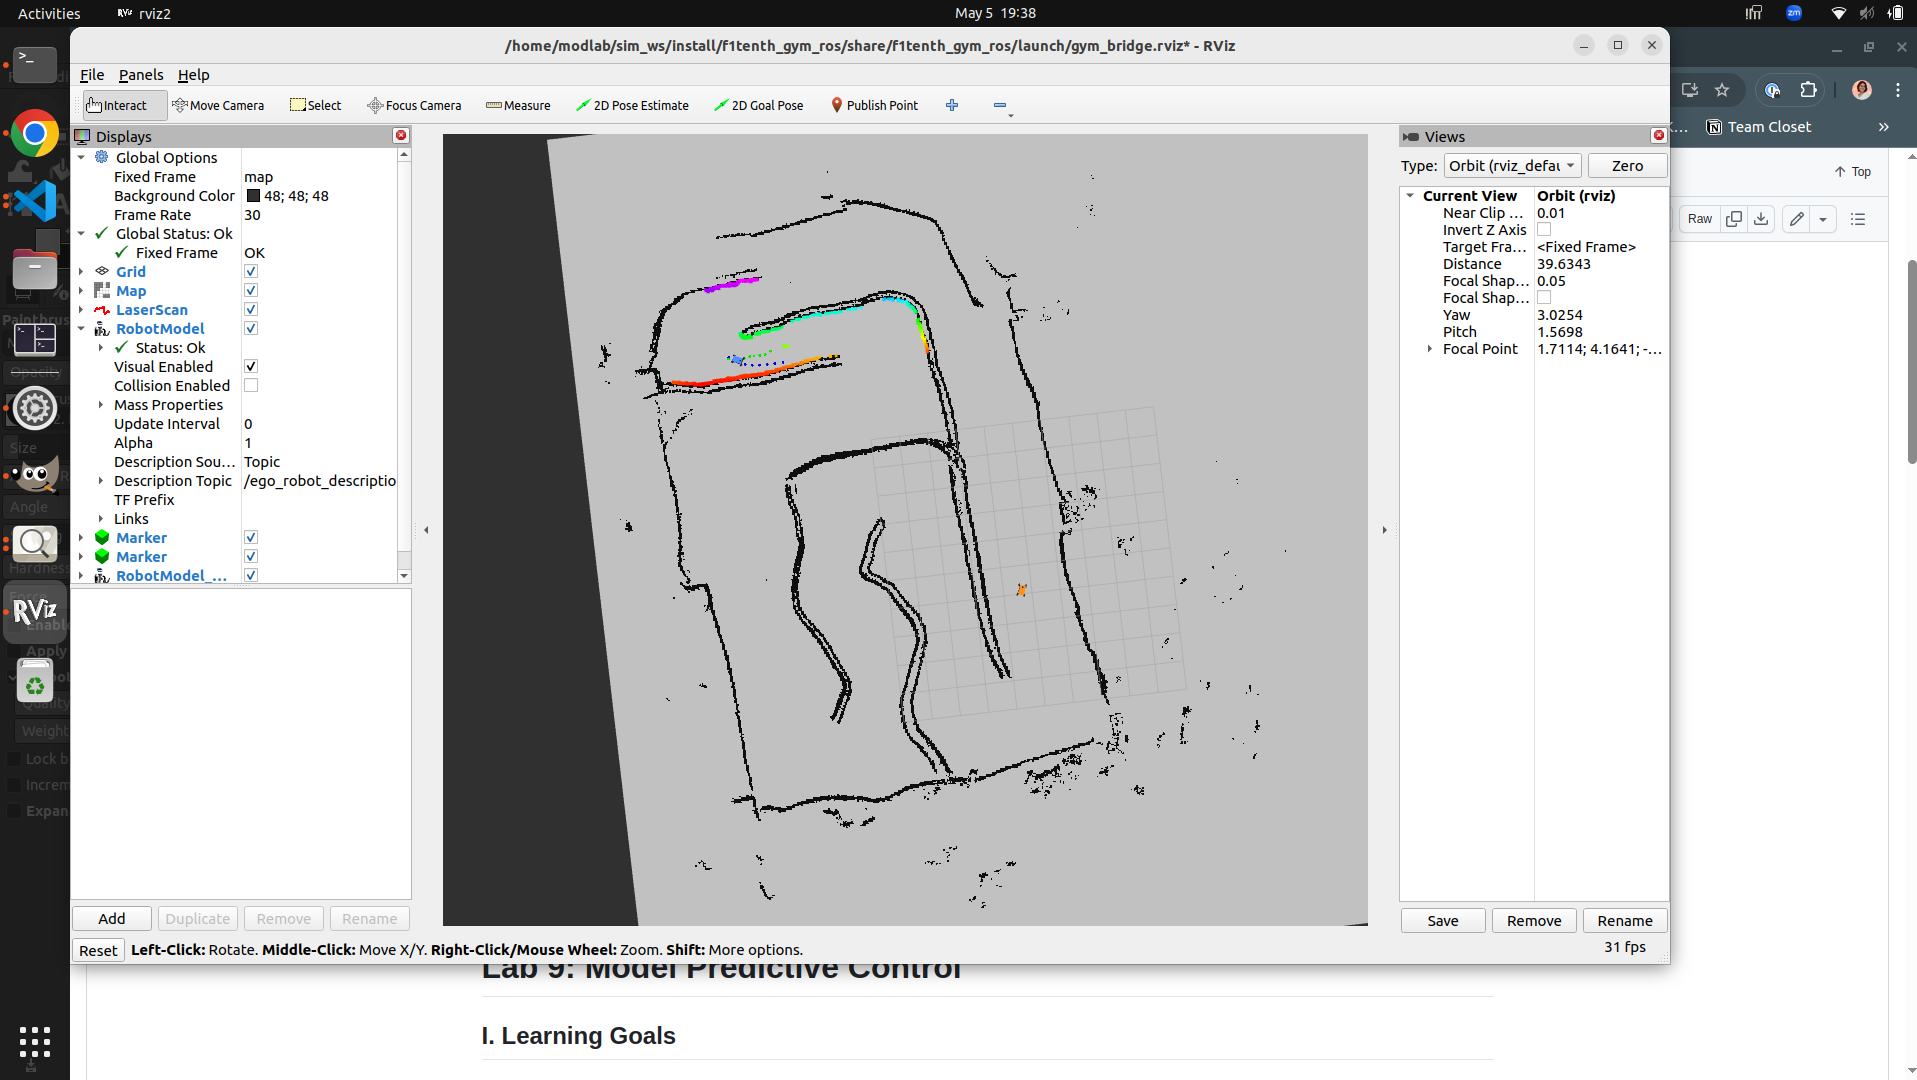
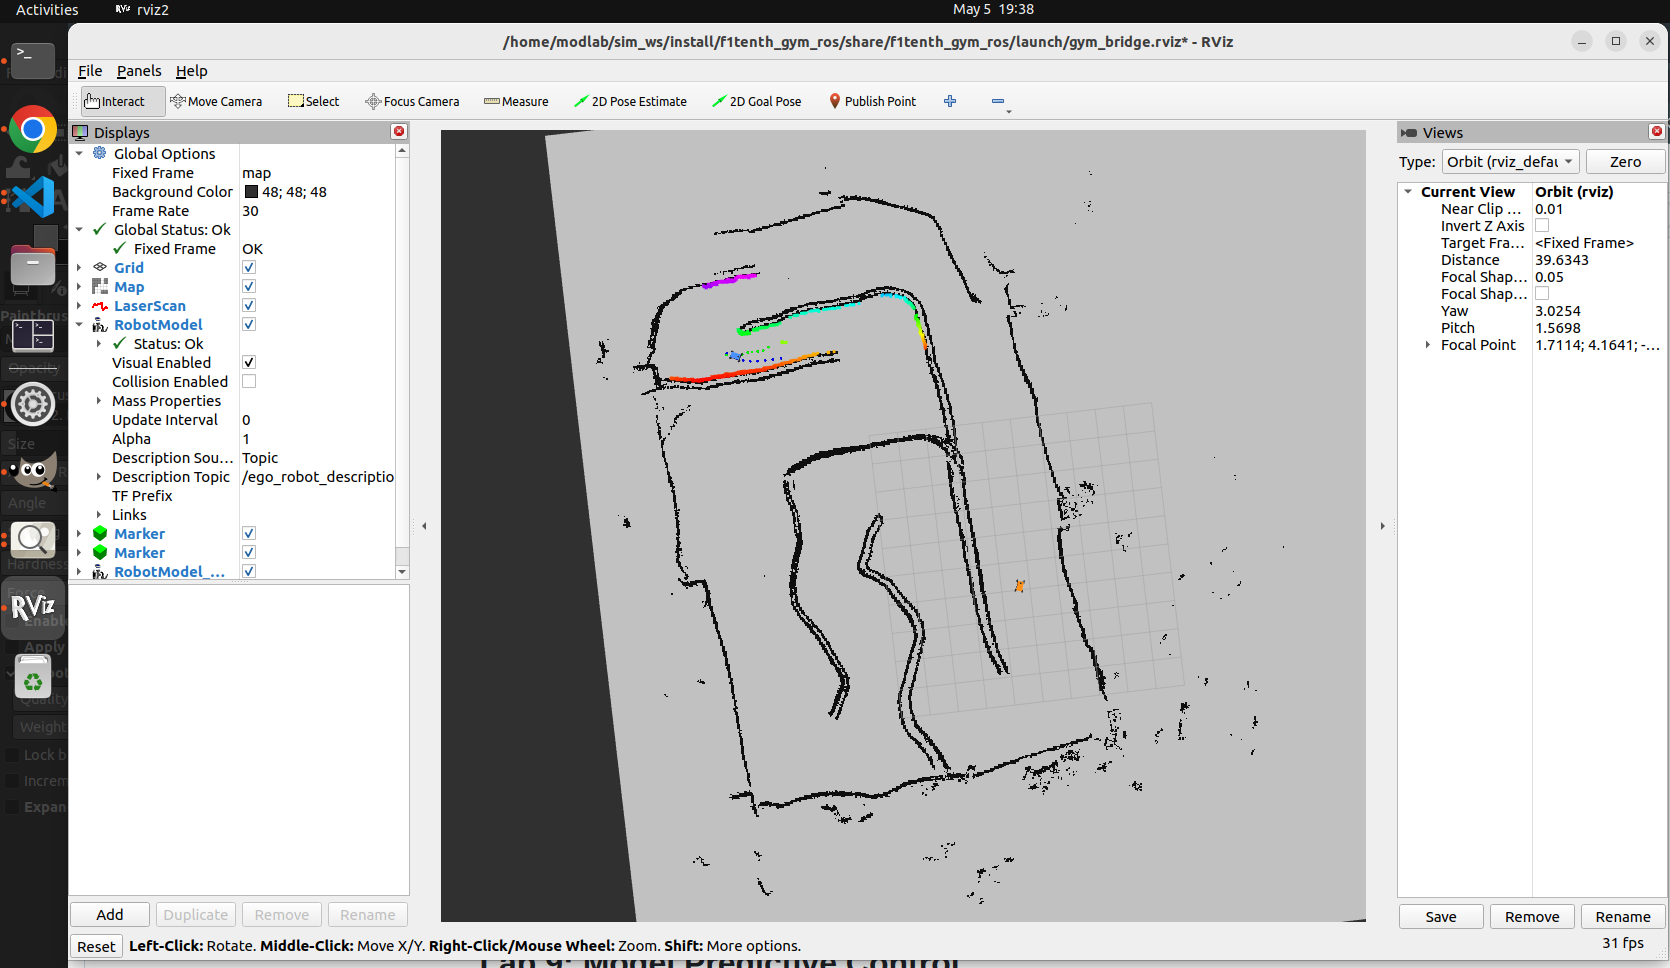
Updates post ICRA and sprucing.

diff --git a/index.html b/index.html
@@ -60,7 +60,7 @@
 									</header>
 									<p>  I’m a roboticist passionate about building systems that move and think in the real world. 
 										My focus is on mechanical design and autonomous system integration, especially for field robotics in space and other challenging environments. 
-										I earned my BSE in Mechanical Engineering with a Minor in Computer Science from the University of Michigan, and I’m currently completing my MSE in Robotics at the University of Pennsylvania (graduating May 2025). 
+										I earned my MSE in Robotics at the University of Pennsylvania (May 2025), and my BSE in Mechanical Engineering with a Minor in Computer Science from the University of Michigan (April 2023).
 										Outside the lab, I’m a dancer, artist, and violinist—I believe creative expression strengthens my engineering work.
 
 									</p>
@@ -76,15 +76,15 @@
 									<!-- <p> </p> -->
 									<div class="features">
 										<article>
-											<a class="image"> <img src="images/f1tenth_track.png"/> <img src="images/f1tenth_mpc_rviz2.png"/> </a>
+											<a class="image"> <img src="images/f1tenth_track.png"/> <img src="images/f1tenth_mpc_rviz2.png"/> <img src="images/ICRA_RoboRacer_Group.jpg"/> </a>
 											<div class="inner">
 												
 												<h4> F1Tenth Autonomous Racing</h4>
 												<p> As part of the ESE 6150: Autonomous Racing course at Penn (a part of <a href="https://roboracer.ai/"> RoboRacer</a>), I developed and implemented planning, perception, and control algorithms for a 1/10th scale autonomous race car using ROS2 in Python. 
 													My work included implementing wall following, pure pursuit, SLAM, RRT-based obstacle avoidance, and model predictive control (MPC) algorithms. 
 													I tested all systems in simulation using RViz and the F1TENTH Gym, and deployed them onto a physical race car for real-world validation. 
-													For the final race, we used an MPC controller tracking an optimally generated trajectory, with dynamic switching to a "follow-the-gap" reactive method to safely avoid other vehicles on the track.
-													I raced at the 24th <a href="https://icra2025-race.roboracer.ai/index.html">RoboRacer Competition</a> at ICRA 2025 as one of 4 teams that UPenn sent. </p>
+													For the final race, we used my control architecture: an MPC controller tracking an optimally generated trajectory, with dynamic switching to a "follow-the-gap" reactive method to safely avoid other vehicles on the track.
+													I additionally raced for the University of Pennsylvania at the 24th <a href="https://icra2025-race.roboracer.ai/index.html">RoboRacer Competition</a> at ICRA 2025. </p>
 													
 											</div>
 										</article>
@@ -93,17 +93,20 @@
 											<div class="inner">
 												<h4> TRUSSES:
 													Temporarily, Robots Unite to Surmount Sandy Entrapments, then Separate </h4>
-												<p> I am a mechanical and robotics lead on an ongoing<a href="https://www.nasa.gov/general/lunar-surface-technology-research-lustr-2023/"> NASA LuSTR-funded </a>robotics project (Grant #80NSSC24K0127), 
-													where I design, fabricate, and adapt novel robotic platforms including the Spiral Zipper and 2xRHex (a meter scale legged robotic platform) for the heterogeneous team of robots connected by Spiral Zipper Arms. 
+												<p> I am a mechanical and robotics research project lead on an ongoing<a href="https://www.nasa.gov/general/lunar-surface-technology-research-lustr-2023/"> NASA LuSTR-funded </a>robotics project (Grant #80NSSC24K0127). 
+													<br><br>
+													<b>Design:</b> I design, fabricate, test, and adapt novel robotic platforms including the Spiral Zipper and 2xRHex (a meter scale legged robotic platform) for the heterogeneous team of robots connected by Spiral Zipper Arms. 
 													Using SolidWorks for CAD, I led rapid, iterative prototyping across the entire mechanical development process—leveraging 3D printing, laser cutting, waterjet cutting, 
 													and basic machining to manufacture and assemble a majority of the robotic components from scratch. 
-													My work includes modifications to the Spiral Zipper’s rotary encoder and limit switch system, full manufacture and assembly of the Spiral Zipper, and mechanical design and fabrication of the 2xRHex robot.
-												
-													Beyond design and fabrication, I lead project planning and coordination for a 10+ person hardware team, ensuring timely integration across subsystems. 
-													I ran experiments at  <a href="https://sservi.nasa.gov/testbed/">NASA Ames' SSERVI Lunar Testbed</a> and plan to deploy the system at the White Sands National Park for futher experimentaiton and validation.
-													I also contribute significantly to technical writing, with work accepted into top robotics venues, 
-													including a Bi-Level Optimization Control poster accepted to an ICRA workshop <a href="https://sites.google.com/view/robust-planning-icra2025-ws/home?authuser=0">(Beyond the Lab: Robust Planning and Control)</a> 
-													and a systems mechanism design paper accepted to <a href="https://iser2025.org/">ISER 2025.</a> </p>
+													My design work includes modifications to the Spiral Zipper’s rotary encoder and limit switch system, full manufacture and assembly of the Spiral Zipper, and mechanical design and fabrication of the 2xRHex robot.
+													<br> <br>
+													<b>Publications:</b> As first author on both an accepted ISER 2025 paper and an ICRA 2025 workshop project, my research contributions have been accepted to leading robotics venues, 
+													including a systems mechanism design paper at <a href="https://iser2025.org/">ISER 2025</a> and a 
+													Bi-Level Optimization Control poster for the ICRA 2025 workshop <a href="https://sites.google.com/view/robust-planning-icra2025-ws/home?authuser=0">Beyond the Lab: Robust Planning and Control</a>.
+													<br> <br>
+													Outside of technical work, I coordinate and manage the 10+ person hardware team to ensure timely subsystem integration and experimental execution, and 
+													conducted field experiments at <a href="https://sservi.nasa.gov/testbed/">NASA Ames' SSERVI Lunar Testbed</a>. The team is also planning additional deployments at White Sands National Park for further validation in extreme environments.
+												</p>
 											</div>
 										</article>
 										<article>
